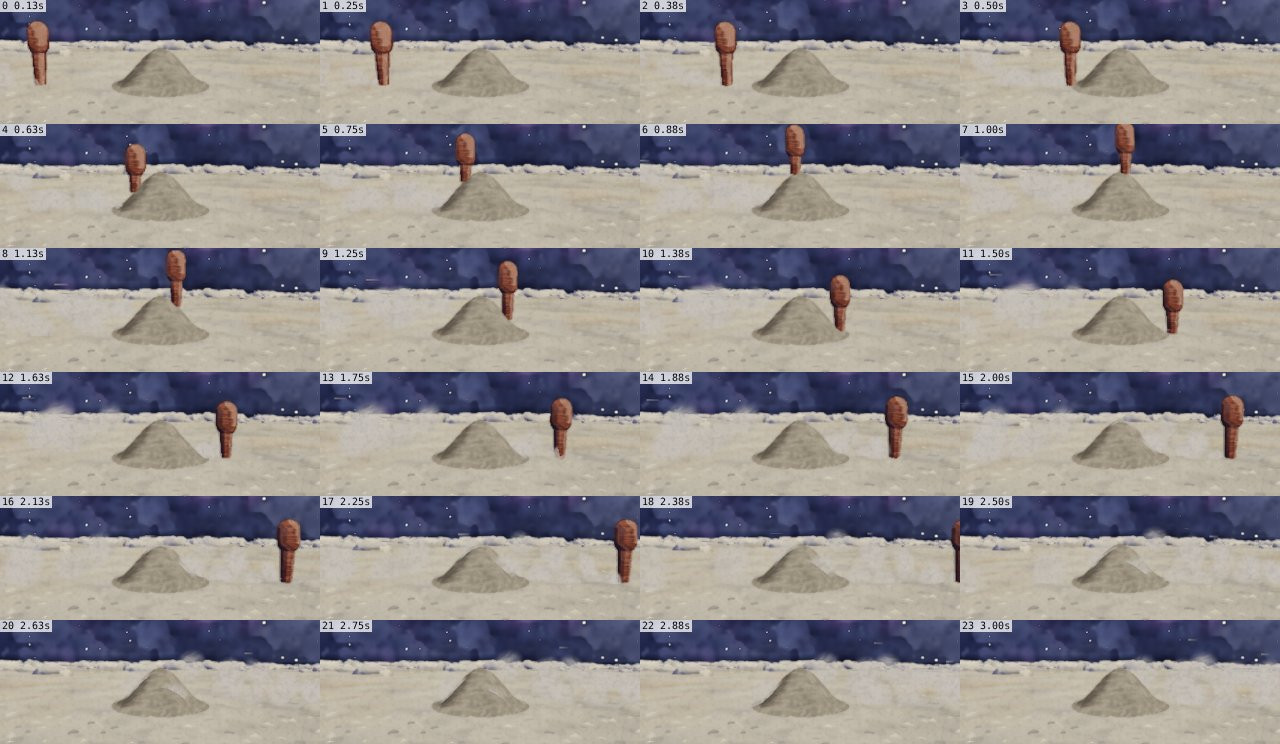
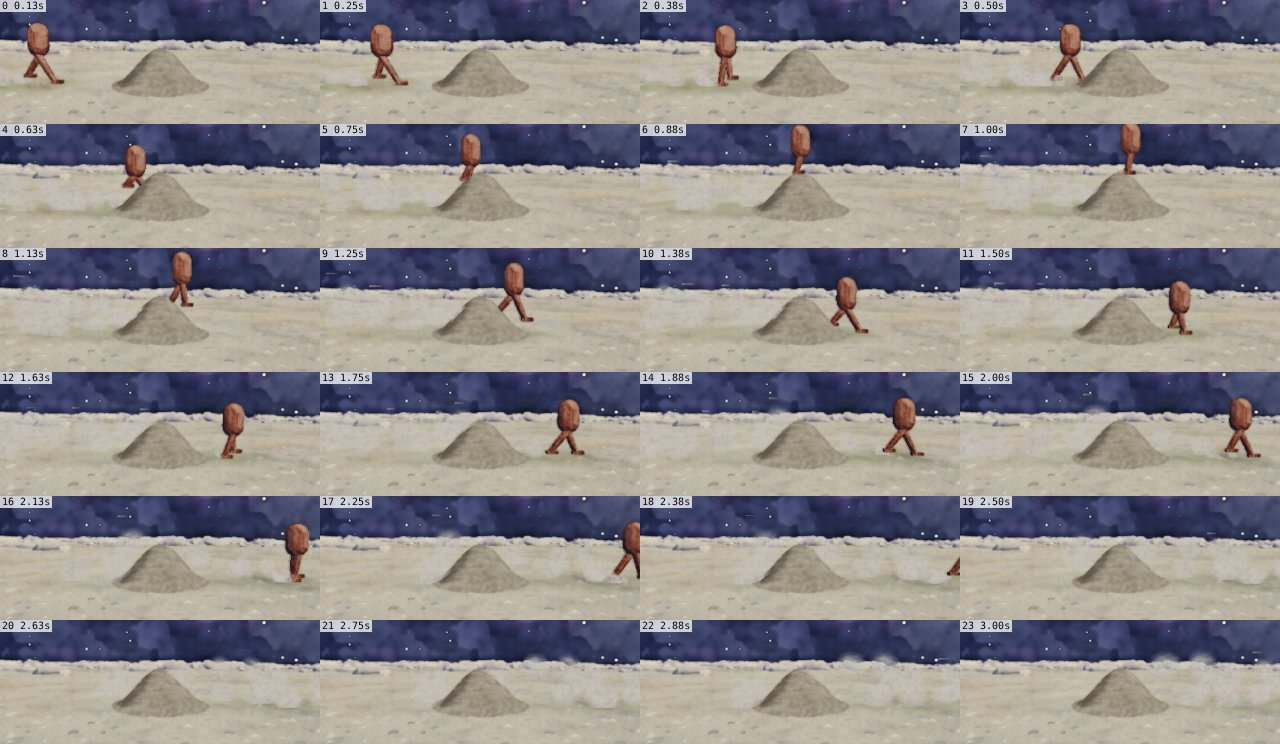
[physics] P15.4 three strips re-filmed from a clean export, kits=painter, all opened: explorer-jet (the brake eases in, -16.6 to -4.6 m/s at 0.55 s steps, 6.3 easing to 2.5 m/s2); ship-hover (the lab's hull now draws buffetAngle: roll -0.35 to -0.52, pitch -0.2 to 0.1, yaw 0.33 to 0.47 degrees in 6.

diff --git a/src/physics/air.js b/src/physics/air.js
@@ -65,7 +65,10 @@ function coverInto(surface, arr, o) {
   arr[o + 10] = heightFactor(2, _cov.z0, _cov.canopyHeight, _cov.canopy01);
   arr[o + 11] = _cov.leaves; arr[o + 12] = _cov.spores; arr[o + 13] = _cov.ash; arr[o + 14] = _cov.fetch; arr[o + 15] = _cov.liquidDensity;
 }
-const HF0 = [heightFactor(FLORA.softHeight, WIND.refRoughness), heightFactor(FLORA.stiffHeight, WIND.refRoughness), heightFactor(2, WIND.refRoughness)];
+// Computed on first use, not at load: flora.js imports air.js (wakeAt), so FLORA is not yet initialised while air.js loads
+// when the browser enters through flora.glsl.js -> flora.js -> air.js.
+let HF0 = null;
+const hf0 = () => HF0 || (HF0 = [heightFactor(FLORA.softHeight, WIND.refRoughness), heightFactor(FLORA.stiffHeight, WIND.refRoughness), heightFactor(2, WIND.refRoughness)]);
 let _coverBody = 'earth';
 
 export class AirGrid {
@@ -358,7 +361,7 @@ export class AirGrid {
       o[6] = (c[a + 2] * v00 + c[b + 2] * v10 + c[d + 2] * v01 + c[e + 2] * v11) * k;
       o[7] = (c[a - 7] * v00 + c[b - 7] * v10 + c[d - 7] * v01 + c[e - 7] * v11) * k;     // canopy01
       if (o.length > 11) o[11] = (c[a - 6] * v00 + c[b - 6] * v10 + c[d - 6] * v01 + c[e - 6] * v11) * k;   // (P15) canopy height (m)
-    } else { o[4] = HF0[0]; o[5] = HF0[1]; o[6] = HF0[2]; o[7] = 0; }
+    } else { const h = hf0(); o[4] = h[0]; o[5] = h[1]; o[6] = h[2]; o[7] = 0; }
     return o;
   }
 
